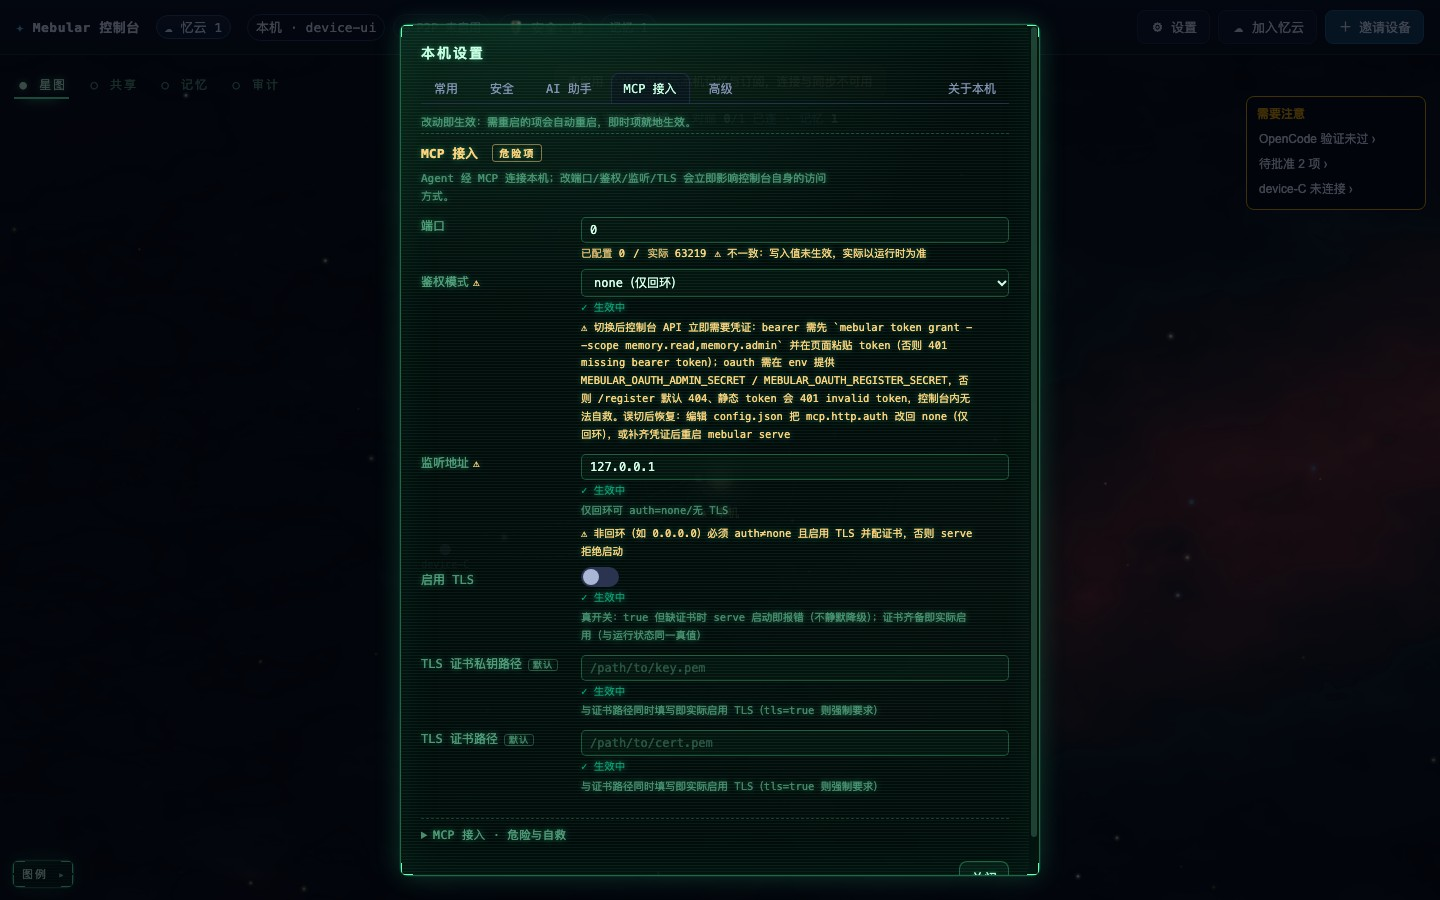
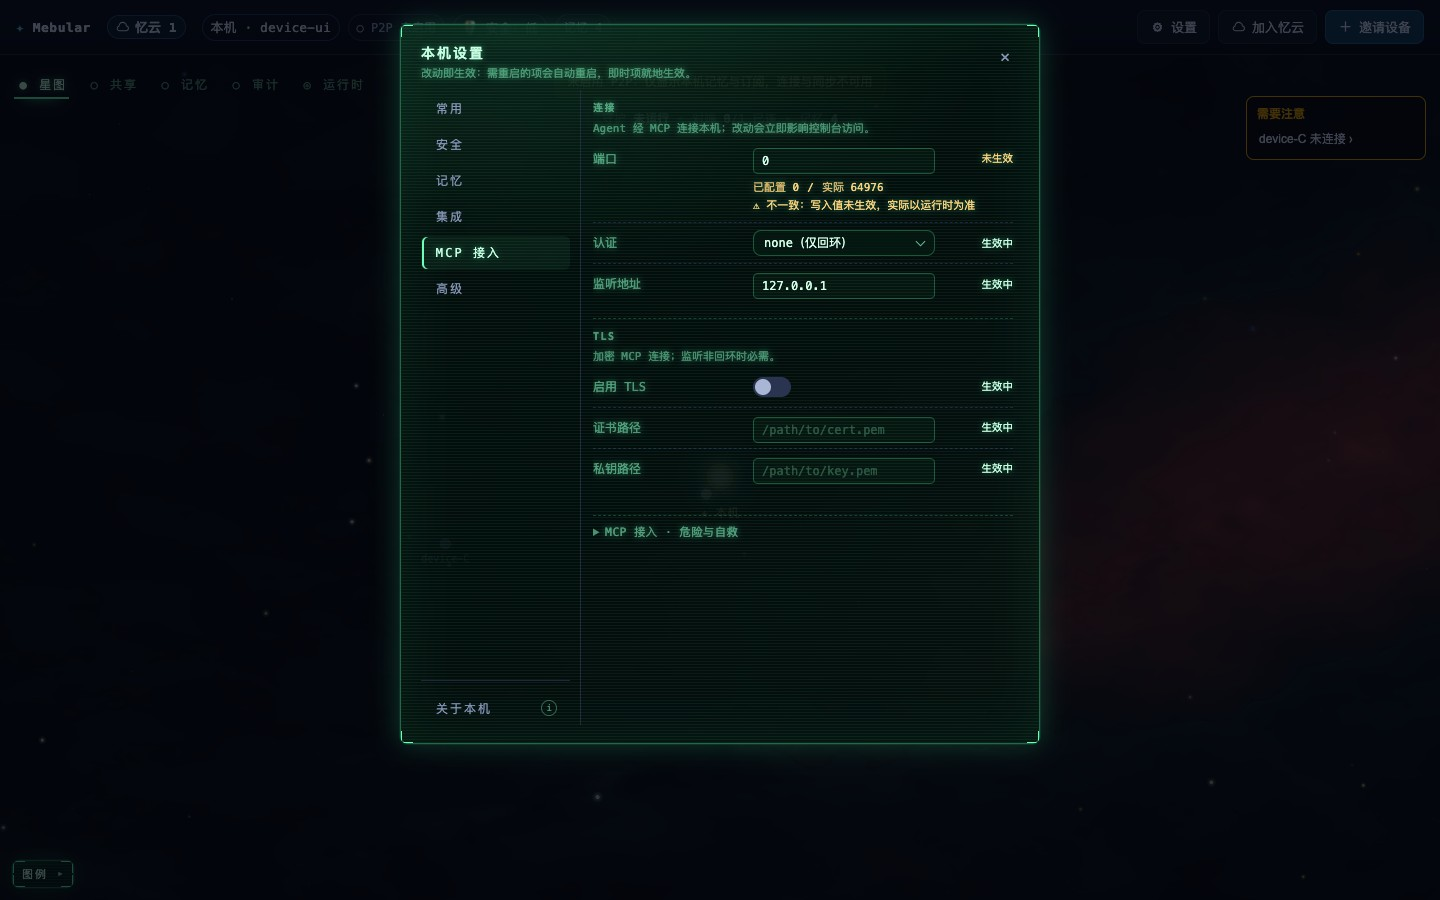
feat(console): align settings internals with design draft

diff --git a/packages/console/console.css b/packages/console/console.css
@@ -575,13 +575,13 @@ body.modal-open { overflow: hidden; }
 .settings-scroll > .settings-panel > .settings-section:first-child,
 .settings-scroll > .settings-panel > .settings-slot:first-child > .settings-section:first-child { border-top: 0; padding-top: 0; }
 /* U-4 设置壳：左侧 160px 固定页签轨 + 内容列；页签轨不滚，仅 .settings-scroll 滚动。 */
-.settings-shell { --kv-action-w: 68px; display: flex; align-items: stretch; gap: 12px; flex: 1 1 auto; min-width: 0; min-height: 0; max-width: 100%; }
+.settings-shell { --kv-action-w: 68px; --type-help: 11px; --type-help-leading: 1.55; display: flex; align-items: stretch; gap: 12px; flex: 1 1 auto; min-width: 0; min-height: 0; max-width: 100%; }
 .settings-rail { flex: 0 0 160px; width: 160px; display: flex; flex-direction: column; align-items: stretch; min-width: 0; min-height: 0; padding: 2px 10px 0 0; border-right: 1px solid var(--border); }
 .settings-rail .settings-tabs { display: flex; flex-direction: column; align-items: stretch; gap: 2px; flex: 0 0 auto; min-width: 0; max-width: 100%; margin: 0; padding: 0; border-bottom: 0; }
 .settings-rail .settings-tab {
   display: flex; align-items: center; width: 100%; height: 34px; min-width: 0;
   padding: 0 12px 0 14px; border: 1px solid transparent; border-radius: 6px;
-  color: var(--muted); font-size: 12px; text-align: left; white-space: nowrap;
+  color: var(--muted); font-size: 12px; letter-spacing: 2px; text-align: left; white-space: nowrap;
 }
 .settings-rail .settings-tab:hover { color: var(--crt-bright); background: rgba(80, 255, 170, 0.04); }
 .settings-rail .settings-tab.is-active {
@@ -592,6 +592,13 @@ body.modal-open { overflow: hidden; }
 .settings-rail-foot { margin-top: auto; padding-top: 10px; border-top: 1px solid var(--border); }
 .settings-rail-foot .settings-tab { width: 100%; }
 .settings-rail-foot .settings-tab-extra { margin-left: 0; }
+.settings-rail-foot .settings-tab-extra::after {
+  content: "i"; display: inline-flex; align-items: center; justify-content: center;
+  width: 14px; height: 14px; margin-left: auto;
+  border: 1px solid var(--crt-faint); border-radius: 50%;
+  color: var(--crt-dim); font-size: 9px; line-height: 1;
+  letter-spacing: 0; flex: none;
+}
 /* ≤900：回退为顶部横排（≤760 继续沿用 .settings-tabs 的换行规则）。 */
 @media (max-width: 900px) {
   .settings-shell { flex-direction: column; gap: 0; }
@@ -676,6 +683,13 @@ body.modal-open { overflow: hidden; }
 .modal-note { font-size: 12px; line-height: 1.6; margin: 6px 0 10px; }
 .settings-section { border-top: 1px solid var(--border); padding: 10px 0; }
 .settings-section h3 { margin: 0 0 8px; font-size: 13px; display: flex; align-items: center; gap: 8px; }
+/* 设计稿对齐：页内分组标题用 10px 字距标签，而不是重 h3（安全卡内标题仍 13px） */
+.settings-panel > .settings-section > h3 {
+  margin-bottom: 6px; font-size: 10px; font-weight: 600;
+  letter-spacing: 1.5px; color: var(--crt-dim); text-transform: uppercase;
+}
+.settings-panel > .settings-section > h3 .badge { font-size: 9.5px; letter-spacing: 0.5px; }
+.settings-panel > .settings-section { padding: 12px 0 14px; }
 .settings-section-desc { margin: -2px 0 8px; font-size: 11px; line-height: 1.6; }
 .settings-section-foot { margin: 8px 0 0; font-size: 11px; line-height: 1.6; }
 /* 英文文案较长：设置区容器允许收缩到可用宽度，长命令/长路径任意断行，不撑出横向滚动。 */
@@ -700,21 +714,27 @@ body.modal-open { overflow: hidden; }
    名称更新/改名说明不再逐行铺开，改由 title / section foot 承担。 */
 .cloud-card:focus-visible { outline: 2px solid var(--accent); outline-offset: 3px; }
 .cloud-intro { margin: 0 0 8px; font-size: 11.5px; line-height: 1.55; }
-.cloud-rows { display: grid; gap: 8px; }
+/* 设计稿对齐：忆云是一个整体面板，行间用虚线分隔，而不是两张浮动卡片 */
+.cloud-rows {
+  display: grid; gap: 0; overflow: hidden;
+  border: 1px solid var(--border); border-radius: 10px;
+  background: rgba(8, 14, 28, 0.45);
+}
 .cloud-row {
   display: grid;
   grid-template-columns: minmax(0, 1fr) auto;
   gap: 8px 12px;
   align-items: center;
   min-height: 58px;
-  padding: 8px 10px;
-  border: 1px solid var(--border);
-  border-radius: 8px;
-  background: rgba(8, 14, 28, 0.45);
+  padding: 8px 14px;
+  border: 0;
+  border-radius: 0;
+  background: transparent;
   min-width: 0;
 }
-.cloud-row.is-current { border-color: rgba(80, 255, 170, 0.32); background: rgba(80, 255, 170, 0.05); }
-.cloud-row.is-duplicate { border-color: rgba(255, 210, 122, 0.45); }
+.cloud-row + .cloud-row { border-top: 1px dashed var(--border); }
+.cloud-row.is-current { background: rgba(80, 255, 170, 0.05); }
+.cloud-row.is-duplicate { box-shadow: inset 2px 0 0 rgba(255, 210, 122, 0.6); }
 .cloud-main { display: grid; gap: 3px; min-width: 0; }
 .cloud-title { display: flex; align-items: center; gap: 8px; flex-wrap: wrap; min-width: 0; }
 .cloud-name { font-weight: 600; min-width: 0; overflow: hidden; text-overflow: ellipsis; white-space: nowrap; }
@@ -819,6 +839,15 @@ body.modal-open { overflow: hidden; }
 .settings-kv .kv-sub.is-mismatch .cfg-warn { color: #ffd27a; }
 .crt-surface .settings-kv .kv-sub { color: var(--crt-muted); }
 .crt-surface .settings-kv .kv-sub.is-mismatch { color: #ffd27a; }
+/* U-4 设计稿对齐：状态点（本机状态 / 常驻 / 安全卡共用） */
+.kv-dot {
+  width: 6px; height: 6px; flex: none; display: inline-block;
+  border-radius: 50%; background: var(--crt);
+  box-shadow: 0 0 6px rgba(109, 255, 184, 0.7);
+}
+.kv-dot.warn { background: var(--warn); box-shadow: none; }
+.kv-dot.off { background: transparent; border: 1px solid rgba(160, 255, 205, 0.45); box-shadow: none; }
+.kv-inline { display: inline-flex; align-items: center; gap: 6px; min-width: 0; }
 .snippet { background: rgba(5, 8, 16, 0.85); border: 1px solid var(--border); border-radius: 8px; padding: 8px 10px; font-size: 11px; line-height: 1.5; overflow: auto; max-height: 200px; }
 .badge-issuer { border-color: rgba(230, 159, 0, 0.55); color: #ffd27a; }
 
@@ -1913,7 +1942,19 @@ body.modal-open { overflow: hidden; }
 .asst-detail-panel p { margin: 2px 0; }
 .asst-detail-actions { display: flex; flex-wrap: wrap; gap: 6px; margin-top: 6px; }
 .asst-output { margin-top: 4px; }
-.settings-resident { margin-bottom: 4px; }
+/* 设计稿对齐：常驻组 / 本机状态组用 CRT 内嵌面板承载，避免裸行散落 */
+.settings-resident {
+  margin-bottom: 10px; padding: 6px 12px 4px;
+  border: 1px solid var(--crt-border-soft); border-radius: 10px;
+  background: rgba(2, 16, 11, 0.28);
+}
+.settings-resident .asst-row { border-bottom: 0; }
+.settings-status-card {
+  padding: 2px 12px;
+  border: 1px solid var(--crt-border-soft); border-radius: 10px;
+  background: rgba(2, 16, 11, 0.28);
+}
+.settings-status-card .settings-kv { gap: 0 var(--row-gap); }
 /* U-4 常用收口：常驻行只保留一行状态 + 一行说明 + 动作组；家目录移入「关于本机」 */
 .settings-resident .asst-service-xp {
   display: flex; align-items: center; justify-content: space-between;
@@ -2368,7 +2409,7 @@ html[lang="en-US"] .btn-small { line-height: 1.5; }
 #settings-security-slot > .settings-section.sec-card {
   position: relative;
   display: grid;
-  grid-template-columns: 22px minmax(0, 1fr) auto;
+  grid-template-columns: 22px minmax(0, 1fr);
   gap: 0 11px;
   align-items: start;
   border: 0;
@@ -2413,6 +2454,8 @@ html[lang="en-US"] .btn-small { line-height: 1.5; }
 }
 .sec-card-main { min-width: 0; }
 .sec-card-head { display: flex; align-items: center; gap: 8px; flex-wrap: wrap; min-height: 19px; }
+/* 动作按钮放在标题行右侧：正文获得整行宽度，英文卡片不再被按钮挤成窄柱 */
+.sec-card-head .sec-card-actions { margin-left: auto; align-self: center; }
 .sec-card-head h3 { margin: 0; font-size: 13px; text-shadow: none; }
 .sec-card-value { display: flex; align-items: baseline; gap: 8px; margin: 5px 0 0; }
 .sec-card-value strong {
@@ -2550,10 +2593,10 @@ html[lang="en-US"] .btn-small { line-height: 1.5; }
     grid-template-columns: 20px minmax(0, 1fr);
     padding: 9px 11px 8px 9px;
   }
-  .sec-card-actions {
-    grid-column: 2 / -1;
+  .sec-card-head .sec-card-actions {
+    grid-column: auto;
     justify-content: flex-start;
-    padding-top: 9px;
+    padding-top: 0;
   }
   .sec-card-actions .btn { flex: 0 0 auto; }
   .sec-pending { grid-template-columns: auto minmax(0, 1fr); }

diff --git a/packages/console/console.js b/packages/console/console.js
@@ -1455,8 +1455,8 @@ function renderCfgField(field) {
 }
 
 // 单一行模板：label | value | action 三列固定（动作列不撑高行；空值统一 muted 占位）
-function kvRow(label, value, copyPayload = null) {
-  return { label, value, copyPayload };
+function kvRow(label, value, copyPayload = null, options = {}) {
+  return { label, value, copyPayload, ...options };
 }
 
 function copyRowOf(label, value) {
@@ -1469,7 +1469,7 @@ function emptyRowOf(label, text) {
 
 function kvRows(rows) {
   const body = rows.map((row) => `<div class="kv-row"><dt>${escapeHtml(row.label)}</dt>`
-    + `<dd class="kv-value">${row.value}</dd>`
+    + `<dd class="kv-value">${row.tone ? `<span class="kv-inline"><span class="kv-dot ${escapeHtml(row.tone)}" aria-hidden="true"></span>${row.value}</span>` : row.value}</dd>`
     + `<dd class="kv-action">${row.copyPayload === null || row.copyPayload === undefined
       ? ''
       : `<button class="btn btn-small btn-crt" type="button" data-copy="${escapeHtml(row.copyPayload)}">${escapeHtml(t('common.copy'))}</button>`}</dd></div>`).join('');
@@ -2120,7 +2120,10 @@ function renderSettings(activeTab = state.settingsTab ?? 'common') {
   const tabLabel = (tab) => t(tab.labelKey ?? `settings.tab.${tab.id}`);
   const tabButton = (tab) => `<button id="settings-tab-${tab.id}" class="settings-tab${tab.id === activeTab ? ' is-active' : ''}"`
     + ` data-settings-tab="${tab.id}" type="button" role="tab" aria-selected="${tab.id === activeTab}" aria-controls="settings-panel-${tab.id}">${escapeHtml(tabLabel(tab))}</button>`;
-  const extraButton = (item) => `<button class="settings-tab settings-tab-extra" type="button" data-settings-extra="${escapeHtml(item.opens)}">${escapeHtml(item.labelKey ? t(item.labelKey) : item.label)}</button>`;
+  const extraButton = (item) => {
+    const label = item.labelKey ? t(item.labelKey) : item.label;
+    return `<button class="settings-tab settings-tab-extra" type="button" data-settings-extra="${escapeHtml(item.opens)}" aria-label="${escapeHtml(label)}">${escapeHtml(label)}</button>`;
+  };
   const panel = (id, inner) => `<section id="settings-panel-${id}" class="settings-panel" data-settings-panel="${id}" role="tabpanel"`
     + ` aria-labelledby="settings-tab-${id}"${id === activeTab ? '' : ' hidden'}>${inner}</section>`;
   // 页签轨（竖轨）+ 底部「关于本机」foot；正常分支与 ?mock=1 分支共用。
@@ -2161,11 +2164,11 @@ function renderSettings(activeTab = state.settingsTab ?? 'common') {
       ${wizardRowHtml(host.capabilities.openWizard)}
       <section class="settings-section" data-settings-common-status>
         <h3>${escapeHtml(t('settings.common.statusTitle'))} <span class="badge badge-muted">${escapeHtml(t('settings.common.readonly'))}</span></h3>
-        ${kvRows([
-          kvRow('P2P', s.network.enabled ? t('settings.common.enabled') : t('settings.common.disabled')),
-          kvRow(t('settings.common.inviteService'), s.join?.enabled ? t('settings.common.enabled') : t('settings.common.inviteDisabled')),
-          kvRow(t('settings.common.securityLevel'), securityLevel ? securityLevelLabel(securityLevel) : '—'),
-        ])}
+        <div class="settings-status-card">${kvRows([
+          kvRow('P2P', s.network.enabled ? t('settings.common.enabled') : t('settings.common.disabled'), null, { tone: s.network.enabled ? 'ok' : 'off' }),
+          kvRow(t('settings.common.inviteService'), s.join?.enabled ? t('settings.common.enabled') : t('settings.common.inviteDisabled'), null, { tone: s.join?.enabled ? 'ok' : 'off' }),
+          kvRow(t('settings.common.securityLevel'), securityLevel ? securityLevelLabel(securityLevel) : '—', null, { tone: securityLevel ? (securityLevel === 'medium' ? 'warn' : 'ok') : 'off' }),
+        ])}</div>
         <p class="settings-note muted">${escapeHtml(t('settings.common.note'))}</p>
       </section>
       ${cloudCardHtml()}
@@ -2286,10 +2289,9 @@ function securitySectionCard({ id, index, titleId, title, state: cardState = 'ef
     <section class="settings-section sec-card ${off ? 'is-off' : 'is-effective'}" data-settings-section="${escapeHtml(id)}" aria-labelledby="${escapeHtml(titleId)}">
       <span class="sec-card-idx" aria-hidden="true">${escapeHtml(index)}</span>
       <div class="sec-card-main">
-        <div class="sec-card-head"><span class="sec-dot${off ? ' is-off' : ''}" aria-hidden="true"></span><h3 id="${escapeHtml(titleId)}">${escapeHtml(title)}</h3>${chip}</div>
+        <div class="sec-card-head"><span class="sec-dot${off ? ' is-off' : ''}" aria-hidden="true"></span><h3 id="${escapeHtml(titleId)}">${escapeHtml(title)}</h3>${chip}${actions ? `<div class="sec-card-actions">${actions}</div>` : ''}</div>
         ${body}
       </div>
-      ${actions ? `<div class="sec-card-actions">${actions}</div>` : ''}
     </section>`;
 }
 
@@ -2438,7 +2440,7 @@ function securityCardHtml() {
     : '';
   const seedMeta = seedImported
     ? `<p class="sec-card-meta"><code>${escapeHtml(fingerprint ?? '—')}</code><span class="sec-sep" aria-hidden="true">·</span><span>${escapeHtml(t('settings.security.card.seed.meta'))}</span></p>`
-    : `<p class="sec-card-meta"><span class="sec-card-warn">${escapeHtml(t('settings.security.totp.notImported'))}</span><span class="sec-sep" aria-hidden="true">·</span><span>${escapeHtml(t('settings.security.totp.notImportedNote'))}</span></p>`;
+    : `<p class="sec-card-meta"><span class="sec-card-warn">${escapeHtml(t('settings.security.totp.notImportedNote'))}</span></p>`;
   const seedCard = securitySectionCard({
     id: 'security-totp',
     index: '02',

diff --git a/packages/console/assistants.js b/packages/console/assistants.js
@@ -350,6 +350,7 @@ export function serviceRowHtml(service, serviceMsg = '') {
       service.running ? '已常驻·运行中' : '已常驻·未运行')
     : tr('settings.service.badge.temporary', '未常驻（临时运行）');
   return `<div class="asst-row">
+      <span class="kv-dot ${registered ? (service.running ? 'ok' : 'warn') : 'off'}" aria-hidden="true"></span>
       <span class="asst-name">${esc(tr('settings.service.title', '常驻运行'))}</span>
       <span class="asst-st">${esc(badge)}</span>
       <span class="asst-sp"></span>

diff --git a/docs/console/screens/u4-settings-redesign/README.md b/docs/console/screens/u4-settings-redesign/README.md
@@ -1,6 +1,8 @@
 # U-4 · 设置弹层改版（竖轨 + 统一行模板 + 安全卡状态）截图基线
 
-基线：`feat/console-settings-redesign` 的 A–F、常用页收口与固定高度之后。本目录补的是 U-4 改版后的设置弹层视觉基线；U-1 / U-3 目录里对应的 after 截图已同步刷新。
+基线：`feat/console-settings-redesign` 的 A–F、常用页收口、固定高度与设计稿对齐之后。本目录补的是 U-4 改版后的设置弹层视觉基线；U-1 / U-3 目录里对应的 after 截图已同步刷新。
+
+> **设计稿对齐（2026-11-10）**：保留 640px CRT 外壳与配色，不引入蓝底；按 Kimi 设置稿收紧内部层级——分组标题改 10px / 1.5 字距，本机状态与忆云改为 CRT 内嵌面板，忆云两行合并为一张面板，安全卡动作移入标题行右侧，本机状态前加 6px 状态点。中英文文案同步压缩，常用 / 记忆 / 安全页在 720px 内完整显示，无横向溢出。
 
 ## 范围
 
@@ -8,7 +10,7 @@
 - **固定外壳**：标题 + 「改动即生效」提示常驻；弹层固定 720px 高（中英文常用页均能容纳），切换页签不再跳高；页签轨不滚，只有内容列 `.settings-scroll` 滚动；滚动时轨与底部「关于本机」不动。
 - **统一行模板**：字段行 `label | control | status` 三列，只读行 `label | value | action`；正常状态显示纯文字「生效中」，异常才是琥珀「待重启 / 未生效」。
 - **模型来源在记忆页**：`记忆` 页签内「记忆模式 → 模型来源 → 模型状态 → 运行状态」，高级页不再混入模型来源。
-- **安全卡状态**：三张状态卡（安全等级 / 动态码种子 / 恢复码），`is-effective`（实心点 + 左侧荧光条）/ `is-off`（空心点 + 中性底）；待批准行只在有记录时出现。
+- **安全卡状态**：三张状态卡（安全等级 / 动态码种子 / 恢复码），`is-effective`（实心点 + 左侧荧光条）/ `is-off`（空心点 + 中性底）；动作按钮收进标题行右侧，正文获得整行宽度（英文卡片不再被按钮挤成窄柱）；待批准行只在有记录时出现。
 - **关于本机叠层**：设置轨底部「关于本机」在设置之上打开只读面板，设置保持打开。
 
 ## 截图
@@ -90,7 +92,7 @@ A–E 已分别确认与本次 UI 改动无关；本会话按要求不改 API/co
 | 检查项 | 结论 |
 |---|---|
 | 1440 / 900 / 390 三档 | 1440 竖轨 160px；900 折顶部横排（`aria-orientation=horizontal`，轨宽 = 内容列宽）；390 页签换行、无横向滚动（探针 `scrollWidth <= clientWidth + 1`）。 |
-| 中 / 英 | 中文与 en-US 均不裁切按钮、不产生弹框内横向溢出；en-US 常驻行动作按钮右边界在滚动区内（`btnRight = -446`，完全不越界）。 |
+| 中 / 英 | 中文与 en-US 均不裁切按钮、不产生弹框内横向溢出；1440px 下 en-US 常用 / 记忆 / 安全页内容高度均 ≤ 视口内容区（639 / 623 / 623px），无需滚动即可看全；390px 集成页 `Snippet ›` 不再越界。 |
 | reduced-motion | `prefers-reduced-motion: reduce` 下无位移动画依赖，布局与常规一致。 |
 | 滚动时 rail 固定 | 记忆页 `scrollTop > 0` 时 rail / rail-foot 的 `getBoundingClientRect().top` 变化 ≤1px；滚动只发生在 `.settings-scroll`。 |
 | 关于本机叠层 | 设置轨底部「关于本机」打开 `#about` 时 `#settings` 仍可见，层级正确。 |

diff --git a/docs/console/screens/u1/README.md b/docs/console/screens/u1/README.md
@@ -2,7 +2,7 @@
 
 基线：main `f1a1219`。截图由 `verify-console-ui.mjs`（真实 serve + headless Chrome）与同一临时 home 的 Playwright 截图生成。
 
-> **U-4 刷新（2026-11-09）**：设置弹层改为「左侧竖轨 + 固定外壳 + 统一行模板」，常用页基线已刷新为 `u1-after-settings-common.jpg`、`u1-after-settings-common-390.jpg`（脚本原始输出名 `u1-after-settings-common*`）。旧 `after-settings-common*.jpg` 已移除。安全 / MCP / 高级的后续基线以 `../u3/` 为准，U-4 全量基线见 `../u4-settings-redesign/`。
+> **U-4 刷新（2026-11-10）**：设置弹层改为「左侧竖轨 + 固定外壳 + 统一行模板」，常用页基线已刷新为 `u1-after-settings-common.jpg`、`u1-after-settings-common-390.jpg`（脚本原始输出名 `u1-after-settings-common*`）。旧 `after-settings-common*.jpg` 已移除。安全 / MCP / 高级的后续基线以 `../u3/` 为准，U-4 全量基线见 `../u4-settings-redesign/`。同日按 Kimi 设置稿对齐：分组标题 10px / 1.5 字距，状态/常驻/忆云组内只加一层 CRT 内嵌面板（设计稿的 card），不引入第二层卡片或蓝底。
 
 ## 折叠预算
 
@@ -17,7 +17,7 @@
 
 | 文件 | 说明 |
 |---|---|
-| `before-settings-common.jpg` / `u1-after-settings-common.jpg` | 设置·常用（U-4 竖轨版已刷新）：删除重复「邀请设备」入口；统一 section 标题/间距；无卡片套卡片；语言行 + 常驻/修复行 |
+| `before-settings-common.jpg` / `u1-after-settings-common.jpg` | 设置·常用（U-4 竖轨版已刷新）：删除重复「邀请设备」入口；统一 section 标题/间距；外框单卡，状态/常驻/忆云组内仅一层 CRT 内嵌面板；语言行 + 常驻/修复行 |
 | `before-settings-advanced.jpg` / `after-settings-advanced.jpg` | 高级：页级说明改为一行；字段帮助内联；底部诊断折叠 |
 | `before-settings-mcp.jpg` / `after-settings-mcp.jpg` | MCP 接入：六字段 + 一个「危险与自救」折叠 |
 | `before-settings-security.jpg` / `after-settings-security.jpg` | 安全：有资格设备一行计数；档位边界内联 |

diff --git a/docs/console/screens/u3/README.md b/docs/console/screens/u3/README.md
@@ -2,7 +2,7 @@
 
 基线：`openchamber/ui-consistency` `6475131`（#145，含 `f08091f` 新建域弹窗与 `6475131` 小弹窗居中）。本分支只改 `packages/console/**`、`tests/console/**`、`docs/console/**`；不改配置能力、行为或协议。
 
-> **U-4 刷新（2026-11-09）**：设置弹层改为「左侧 160px 竖轨（≤900 折顶部横排）+ 固定外壳 + 统一行模板」后，本目录 `u3-after-settings-advanced*.jpg`、`u3-after-settings-mcp*.jpg`、`u3-after-settings-security*.jpg` 已按同一脚本重新生成；下方「主 section 数 / 文本量」等 U-3 结论不变，仅视觉外壳变化。U-4 全量基线见 `../u4-settings-redesign/`。
+> **U-4 刷新（2026-11-10）**：设置弹层改为「左侧 160px 竖轨（≤900 折顶部横排）+ 固定外壳 + 统一行模板」后，本目录 `u3-after-settings-advanced*.jpg`、`u3-after-settings-mcp*.jpg`、`u3-after-settings-security*.jpg` 已按同一脚本重新生成；同日按 Kimi 设置稿对齐分组标题（10px / 1.5 字距）与安全卡动作位置（移入标题行右侧，正文整行宽）。下方「主 section 数 / 文本量」等 U-3 结论不变，仅视觉外壳变化。U-4 全量基线见 `../u4-settings-redesign/`。
 
 ## 1. 现状 sections → 目标 sections
 
